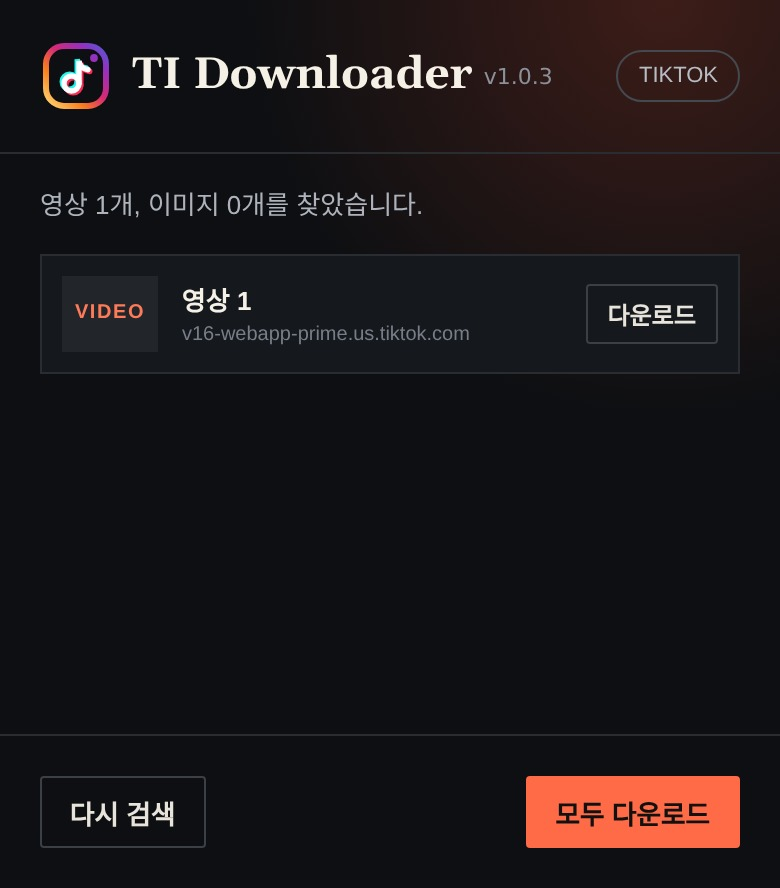
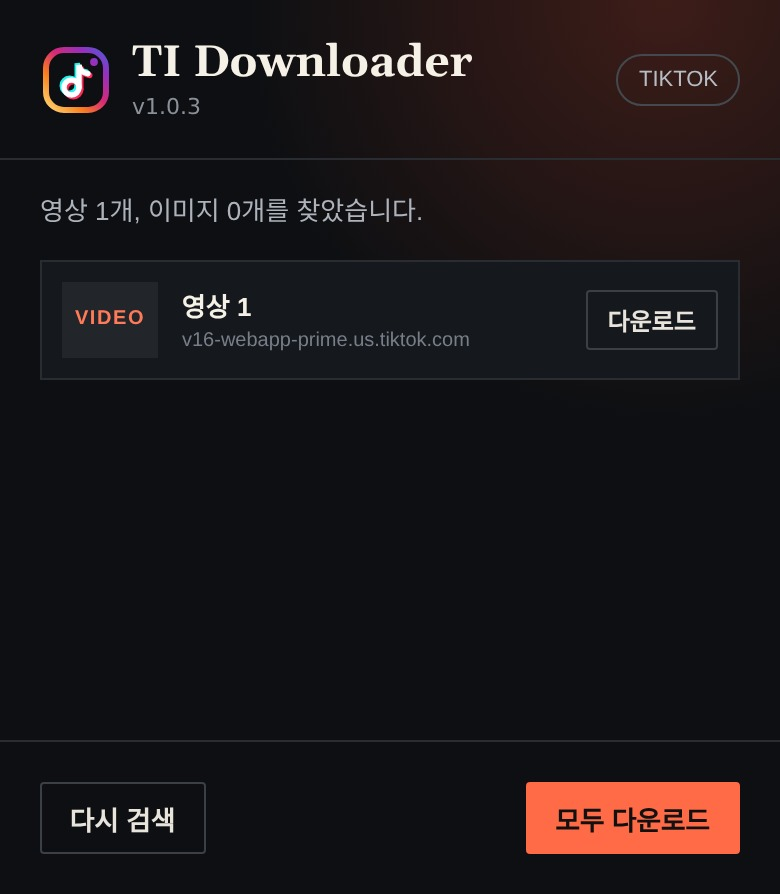
fix: 팝업 다운로드 버튼과 헤더 버전 표기가 줄바꿈되지 않도록 수정하고 스크린샷 갱신

diff --git a/popup.css b/popup.css
@@ -29,7 +29,7 @@ footer { border-top: 1px solid #292c31; gap: 10px; }
 .brand { display: flex; align-items: center; gap: 10px; }
 .logo { flex: none; width: 36px; height: 36px; }
 h1 { margin: 0; font: 700 22px/1.1 Georgia, serif; }
-#version { color: #8b9099; font: 400 11px/1 system-ui, sans-serif; vertical-align: middle; }
+#version { display: block; margin-top: 4px; color: #8b9099; font: 400 11px/1 system-ui, sans-serif; }
 #platform { border: 1px solid #444950; border-radius: 999px; padding: 6px 10px; color: #b8bdc5; font-size: 11px; text-transform: uppercase; }
 main { min-height: 290px; padding: 16px 20px; }
 #status { margin: 0 0 14px; color: #aeb3bb; font-size: 13px; line-height: 1.5; }
@@ -37,7 +37,7 @@ main { min-height: 290px; padding: 16px 20px; }
 
 .media-row {
   display: grid;
-  grid-template-columns: 48px 1fr auto;
+  grid-template-columns: 48px minmax(0, 1fr) auto;
   align-items: center;
   gap: 12px;
   padding: 10px;
@@ -74,4 +74,4 @@ button {
 button:hover { border-color: #ff6b46; }
 button.primary { border-color: #ff6b46; background: #ff6b46; color: #111; }
 button:disabled { cursor: not-allowed; opacity: 0.45; }
-.media-row button { min-height: 30px; padding: 0 10px; font-size: 12px; }
+.media-row button { min-height: 30px; padding: 0 10px; font-size: 12px; white-space: nowrap; }
